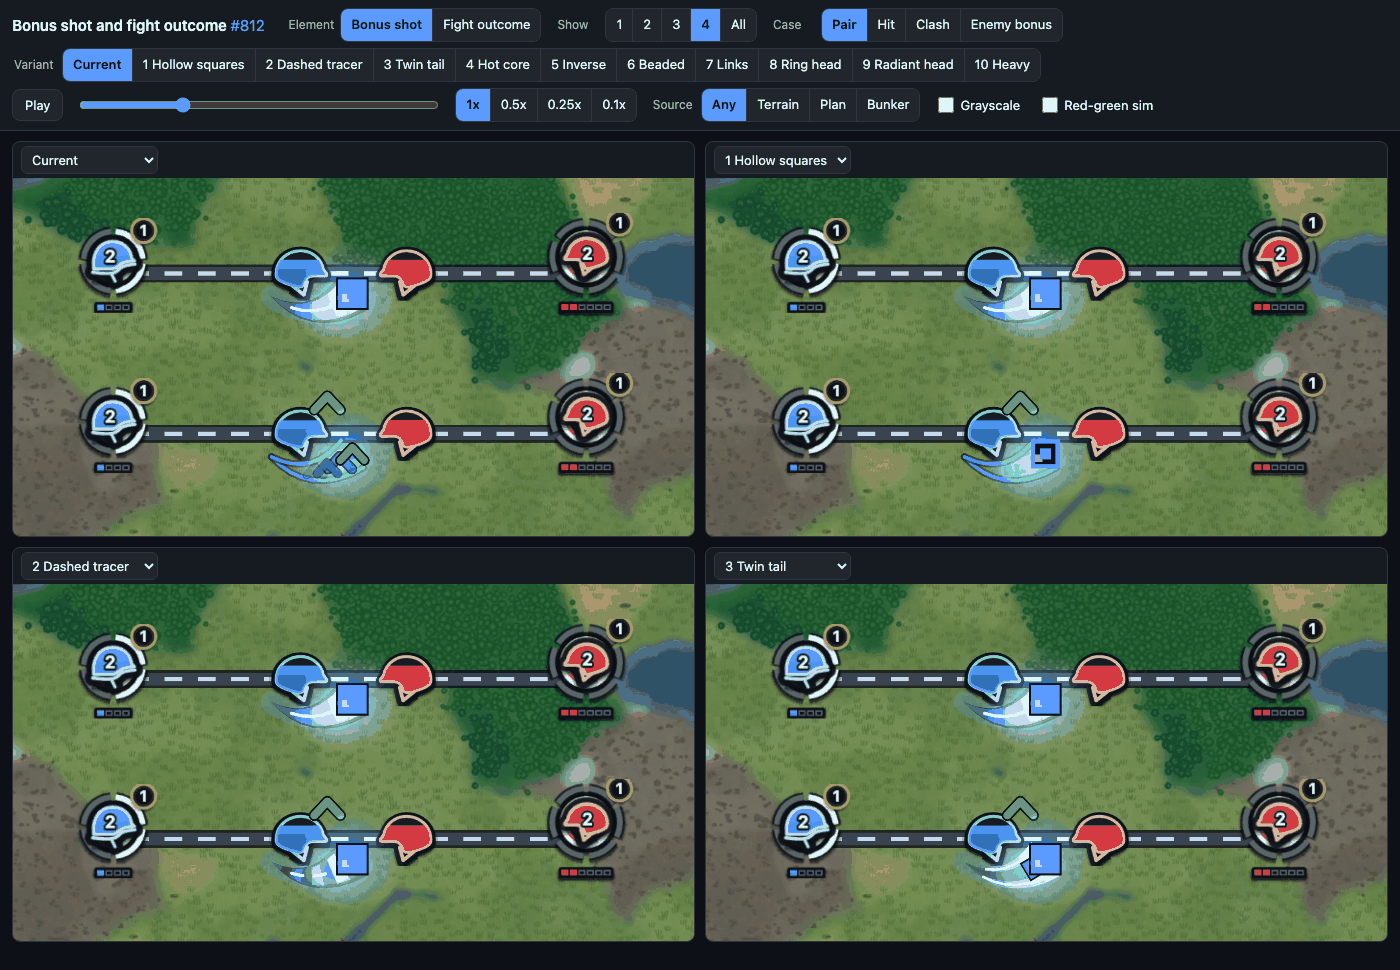
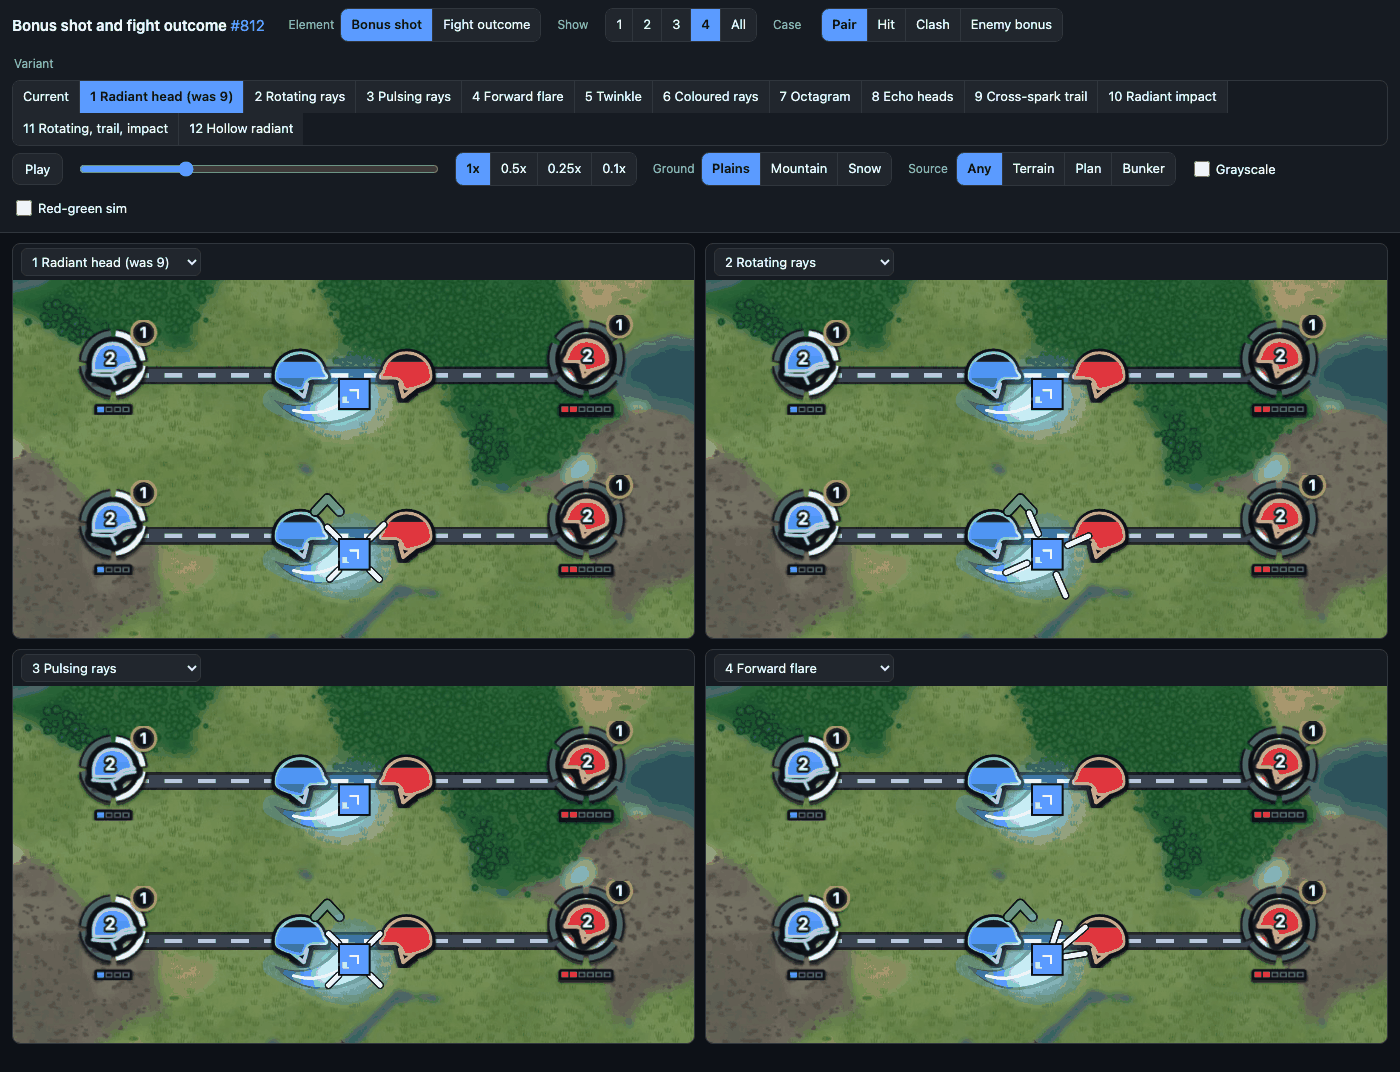
docs(docs): radiant head variations, round 3 of the bonus shot (#812)

diff --git a/docs/design/mockups/fight-bonus-and-outcome.html b/docs/design/mockups/fight-bonus-and-outcome.html
@@ -62,6 +62,7 @@ canvas{display:block;width:100%;height:auto;background:#000}
     <button id="play" aria-pressed="true">Pause</button>
     <input type="range" id="scrub" min="0" max="1000" value="0" aria-label="Time">
     <div class="seg" id="spd"></div>
+    <fieldset id="f-bg"><legend>Ground</legend><div class="seg" id="bg"></div></fieldset>
     <fieldset id="f-src"><legend>Source</legend><div class="seg" id="src"></div></fieldset>
     <label class="tog"><input type="checkbox" id="gray">Grayscale</label>
     <label class="tog"><input type="checkbox" id="rg">Red-green sim</label>
@@ -74,7 +75,7 @@ canvas{display:block;width:100%;height:auto;background:#000}
 const A='assets/fight-bonus-and-outcome/';
 const FILES={cityOwn:'city-own.png',cityEnemy:'city-enemy.png',helmetOwn:'helmet-own.png',helmetEnemy:'helmet-enemy.png',
  chipB:'chip-blue.png',chipBE:'chip-blue-empty.png',chipBD:'chip-blue-dead.png',chipR:'chip-red.png',chipRE:'chip-red-empty.png',chipRD:'chip-red-dead.png',
- bgPlains:'bg-plains.jpg',bgMountain:'bg-mountain.jpg'};
+ bgPlains:'bg-plains.jpg',bgMountain:'bg-mountain.jpg',bgSnow:'bg-snow.jpg'};
 const IMG={};
 const SP=0.75; // sprite px (2x capture) -> logical px
 const W=800,H=420;
@@ -161,6 +162,20 @@ function glowSpot(c,x,y,d,rgb,a){if(a<=0)return;c.save();c.globalCompositeOperat
 function sq(c,x,y,side,ang,fill,{outline=BG,ow=3.2,a=1}={}){c.save();c.globalAlpha*=a;c.translate(x,y);c.rotate(ang);c.beginPath();c.rect(-side/2,-side/2,side,side);if(outline){c.lineJoin='miter';c.strokeStyle=outline;c.lineWidth=ow;c.stroke();}if(fill){c.fillStyle=fill;c.fill();}c.restore();}
 function fillPoly(c,pts,style,a=1){c.save();c.globalAlpha*=a;c.fillStyle=style;polyPath(c,pts);c.closePath();c.fill();c.restore();}
 
+function rayLine(c,x,y,an,r0,r1,w,col,a=1){const p0=pt(x+Math.cos(an)*r0,y+Math.sin(an)*r0),p1=pt(x+Math.cos(an)*r1,y+Math.sin(an)*r1);strokePts(c,[p0,p1],w+2.4,'#0d1117',.9*a);strokePts(c,[p0,p1],w,col,a);}
+/* the rays of a radiant head: fixed to the corners of the square (never radial from a point, so they do not read as the cancel rays) */
+function drawRays(c,h,H,age,dir,base,mode){
+  const r0=H*.78,bc=`rgb(${base[0]},${base[1]},${base[2]})`,w=2.1*U,D=Math.PI/4;
+  if(mode==='fixed'){for(let i=0;i<4;i++)rayLine(c,h.x,h.y,D+i*Math.PI/2,r0,r0+9*U*(.8+.2*Math.sin(age/80+i)),w,'#fff');}
+  else if(mode==='rotate'){for(let i=0;i<4;i++)rayLine(c,h.x,h.y,age/170+D+i*Math.PI/2,r0,r0+10*U,w,'#fff');}
+  else if(mode==='pulse'){const q=.5+.5*Math.sin(age/90);for(let i=0;i<4;i++)rayLine(c,h.x,h.y,D+i*Math.PI/2,r0,r0+(3+13*q)*U,w,'#fff');}
+  else if(mode==='forward'){[[-.55,9],[0,14],[.55,9]].forEach(([k,L])=>rayLine(c,h.x,h.y,dir+k,H*.62,H*.62+L*U,w,'#fff'));}
+  else if(mode==='twinkle'){for(let i=0;i<4;i++){const on=(Math.floor(age/70)+i)%2===0;rayLine(c,h.x,h.y,D+i*Math.PI/2,r0,r0+(on?13:4)*U,w,'#fff');}}
+  else if(mode==='colour'){for(let i=0;i<4;i++){rayLine(c,h.x,h.y,D+i*Math.PI/2,r0,r0+12*U,3.2*U,bc);rayLine(c,h.x,h.y,D+i*Math.PI/2,r0+1*U,r0+10*U,1.2*U,'#fff');}}
+}
+function flareFx(c,s,u){if(u>=.5)return;const p=u/.5,ez=1-(1-p)*(1-p),x=s.to.x,y=s.to.y,bc=`rgb(${sideRgb(s.side).join(',')})`;
+  for(let i=0;i<4;i++){rayLine(c,x,y,i*Math.PI/2,5*U,(10+22*ez)*U,3*U*(1-p)+.8,'#fff',1-p);rayLine(c,x,y,i*Math.PI/2,(10+22*ez)*U*.6,(10+22*ez)*U,2.2*U*(1-p)+.6,bc,1-p);}
+  glowSpot(c,x,y,60*U*(1-.5*p),[255,255,255],.9*(1-p)*(1-p));}
 /* the tracer: o = {tail,head,echo,...}; the base look (tail 'solid', head 'square') is exactly the ordinary shot */
 function tracer(c,s,age,seed,o={}){
   const ph=phaseOf(s,age);if(!ph)return;
@@ -220,21 +235,25 @@ function tracer(c,s,age,seed,o={}){
   // the head: the baked square (20 units), the owner colour with a light spot (the opponent's: a dark one)
   const tg=arcTan(s,t),ang=0,H=(o.headK||1)*20*U*.62;
   const hd=o.head||'square';
+  if(o.echoHeads)for(const [back,k,al] of [[.08,.7,.55],[.16,.5,.4],[.24,.34,.25]]){const q=arcAt(s,Math.max(0,t-back));c.save();c.globalAlpha*=al;drawRays(c,q,H*k,age,0,base,'fixed');sq(c,q.x,q.y,H*k,0,rgba(base,1),{ow:2});c.restore();}
   if(hd==='square'||hd==='rays'||hd==='tandem'||hd==='heavy'){
     if(hd==='tandem'){const q=arcAt(s,Math.max(0,t-.09)),tq=arcTan(s,Math.max(0,t-.09));sq(c,q.x,q.y,H*.62,Math.atan2(tq.y,tq.x),rgba(base,1),{ow:2.6,a:.95});}
-    if(hd==='rays'){for(let i=0;i<4;i++){const an=ang+Math.PI/4+i*Math.PI/2,r0=H*.78,r1=H*.78+9*U*(.8+.2*Math.sin(age/80+i));strokePts(c,[pt(head.x+Math.cos(an)*r0,head.y+Math.sin(an)*r0),pt(head.x+Math.cos(an)*r1,head.y+Math.sin(an)*r1)],2.6*U*.8+2,'#0d1117',.9);strokePts(c,[pt(head.x+Math.cos(an)*r0,head.y+Math.sin(an)*r0),pt(head.x+Math.cos(an)*r1,head.y+Math.sin(an)*r1)],2.6*U*.8,'#fff',1);}}
+    if(hd==='rays')drawRays(c,head,H,age,Math.atan2(tg.y,tg.x),base,o.rayMode||'fixed');
     sq(c,head.x,head.y,H,ang,rgba(base,1));sq(c,head.x,head.y,H*.34,ang,enemy?'#0d1117':'#fff',{outline:null,a:.95});}
   else if(hd==='hollow'){sq(c,head.x,head.y,H,ang,'#0d1117',{outline:null});sq(c,head.x,head.y,H-3,ang,null,{outline:rgba(base,1),ow:3.4});sq(c,head.x,head.y,H*.26,ang,'#fff',{outline:null});}
+  else if(hd==='octa'){sq(c,head.x,head.y,H*1.3,age/240+Math.PI/4,`rgb(${mixw(HX[s.side],.45).join(',')})`,{ow:2.6});sq(c,head.x,head.y,H,age/-300,rgba(base,1));sq(c,head.x,head.y,H*.34,0,enemy?'#0d1117':'#fff',{outline:null,a:.95});}
+  else if(hd==='hollowrays'){drawRays(c,head,H,age,Math.atan2(tg.y,tg.x),base,'fixed');sq(c,head.x,head.y,H,ang,'#0d1117',{outline:null});sq(c,head.x,head.y,H-3,ang,null,{outline:rgba(base,1),ow:3.4});sq(c,head.x,head.y,H*.26,ang,'#fff',{outline:null});}
   else if(hd==='whitesq'){sq(c,head.x,head.y,H,ang,'#fff',{outline:'#0d1117'});sq(c,head.x,head.y,H-2,ang,null,{outline:rgba(base,1),ow:3});}
   else if(hd==='ring'){fillC(c,head.x,head.y,H*.72,'#0d1117');ringC(c,head.x,head.y,H*.5,3.6,`rgb(${base[0]},${base[1]},${base[2]})`);fillC(c,head.x,head.y,H*.14,'#fff');}
   // the sparks: five little squares left along the way, alternately the colour and white
   for(let j=0;j<5;j++){const born=(j+1)/6,ageSh=(ph.flown-born)*s.at;if(ageSh<0||ageSh>=.16)continue;const life=ageSh/.16,q=arcAt(s,s.start+(1-s.start)*born),dr=(rnd(j+seed*3)-.5)*9*life*U;
-    sq(c,q.x+s.normal.x*dr,q.y+s.normal.y*dr,4.8*(1-life)*U,0,j%2?'#fff':rgba(base,1),{outline:null,a:1-life});}
+    if(o.sparkKind==='cross'){const px=q.x+s.normal.x*dr,py=q.y+s.normal.y*dr,r=4.8*U*(1-life)*1.5;star4(c,px,py,r*1.3,life*3,'#0d1117',.8*(1-life),.3);star4(c,px,py,r,life*3,j%2?'#fff':rgba(base,1),1-life,.3);}
+    else sq(c,q.x+s.normal.x*dr,q.y+s.normal.y*dr,4.8*(1-life)*U,0,j%2?'#fff':rgba(base,1),{outline:null,a:1-life});}
 }
 /* the wind-up: a glow grows on the group and a ring closes in on it, 0.35 s before the tick (render/fightImpact.ts) */
 function wind(c,at,side,t){const w=clamp((t-(T.fire-.175*ROUND))/(.175*ROUND));if(w<=0||w>=1&&t>T.fire)return;const rgb=sideRgb(side);glowSpot(c,at.x,at.y,2*1.4*(9+9*w*1.6)*U,rgb,.55*w);ringC(c,at.x,at.y,(25-10*w)*U,2.2,`rgb(${rgb[0]},${rgb[1]},${rgb[2]})`,.7*w);}
 /* the hit burst (impactParticles, kill): ring, flash, sparks in a cone from the shooter, shards of a unit that died; bonus: dashed ring, paler flash */
-function hitFx(c,s,th,{spark='square',bonus=false,ringK=1,extra=null}={}){
+function hitFx(c,s,th,{spark='square',bonus=false,ringK=1,extra=null,flare=false}={}){
   const u=th/(.5*ROUND);if(u<0||u>=1)return;const to=s.to,from=s.from,ang=Math.atan2(to.y-from.y,to.x-from.x),shooter=sideRgb(s.side),victim=s.side==='own'?'enemy':'own',vrgb=sideRgb(victim),ez=p=>1-(1-p)*(1-p);
   if(u<.5){const p=u/.5,r=(5+32.8*ez(p))*.55*U*ringK,col=mixw(HX[s.side],.5);c.save();if(bonus)c.setLineDash([6*U*.6,5*U*.6]);ringC(c,to.x,to.y,r,4.4,'#0d1117',(1-p)*.8);ringC(c,to.x,to.y,r,2.6,`rgb(${col[0]},${col[1]},${col[2]})`,1-p);c.restore();}
   if(u<.3){const p=u/.3;glowSpot(c,to.x,to.y,2*(8+12.8)*1.3*U*(1-.4*p)*.6,[255,255,255],(bonus?.55:.8)*(1-p)*(1-p));}
@@ -242,6 +261,7 @@ function hitFx(c,s,th,{spark='square',bonus=false,ringK=1,extra=null}={}){
     if(spark==='hollow')sq(c,x,y,sz*1.5,an,null,{outline:j%2?'#fff':`rgb(${shooter[0]},${shooter[1]},${shooter[2]})`,ow:1.8,a:1-p});
     else sq(c,x,y,sz,an,j%2?'#fff':`rgb(${shooter[0]},${shooter[1]},${shooter[2]})`,{outline:null,a:1-p});}}
   const q=u/.95;if(q<1)for(let j=0;j<5;j++){const an=ang+(rnd(j+31)-.5)*3.4,d=ez(q)*48*U*.6,x=to.x+Math.cos(an)*d,y=to.y+Math.sin(an)*d+q*q*36*U*.6;c.save();c.translate(x,y);c.rotate(q*6.6+j);c.globalAlpha=1-q;const im=IMG.chipR;c.drawImage(im,-im.width*SP*.2,-im.height*SP*.2,im.width*SP*.4,im.height*SP*.4);c.restore();}
+  if(flare)flareFx(c,s,u);
   if(extra)extra(c,s,u);
 }
 function cancelFx(c,s,th,bonusBy){const u=th/(.5*ROUND);if(u<0||u>=1)return;const m=s.b,ez=p=>1-(1-p)*(1-p);
@@ -252,16 +272,18 @@ function cancelFx(c,s,th,bonusBy){const u=th/(.5*ROUND);if(u<0||u>=1)return;cons
 
 const V=[];
 V.push({id:'cur',name:'Current',o:{tail:'edges',head:'chevron',echo:'chevrons'},hit:{bonus:true,spark:'hollow'}});
-V.push({id:'hollow',name:'Hollow squares',o:{tail:'edges',head:'hollow',echo:'squares'},hit:{bonus:true,spark:'hollow'}});
-V.push({id:'dashed',name:'Dashed tracer',o:{tail:'dashed',head:'square'},hit:{bonus:true,spark:'square'}});
-V.push({id:'twin',name:'Twin tail',o:{tail:'twin',head:'tandem'},hit:{bonus:true,spark:'square'}});
-V.push({id:'hot',name:'Hot core',o:{tail:'hot',head:'whitesq',glowK:1.35,glowA:1.2},hit:{bonus:false,spark:'square',ringK:1.15}});
-V.push({id:'inverse',name:'Inverse',o:{tail:'inverse',head:'whitesq',bonusPath:true},hit:{bonus:true,spark:'square'}});
-V.push({id:'beads',name:'Beaded',o:{tail:'beads',head:'square',bonusPath:true},hit:{bonus:true,spark:'square'}});
-V.push({id:'links',name:'Links',o:{tail:'links',head:'square'},hit:{bonus:true,spark:'square'}});
-V.push({id:'ring',name:'Ring head',o:{tail:'solid',head:'ring',bonusPath:true},hit:{bonus:true,spark:'hollow'}});
-V.push({id:'rays',name:'Radiant head',o:{tail:'solid',head:'rays'},hit:{bonus:true,spark:'square'}});
-V.push({id:'heavy',name:'Heavy',o:{tail:'heavy',head:'square',tailK:1.5,shareK:.62,headK:1.4,glowK:1.25},hit:{bonus:false,spark:'square',ringK:1.25}});
+V.push({id:'rays',name:'Radiant head (was 9)',o:{tail:'solid',head:'rays'},hit:{bonus:true,spark:'square'}});
+V.push({id:'rotate',name:'Rotating rays',o:{tail:'solid',head:'rays',rayMode:'rotate'},hit:{bonus:true,spark:'square'}});
+V.push({id:'pulse',name:'Pulsing rays',o:{tail:'solid',head:'rays',rayMode:'pulse'},hit:{bonus:true,spark:'square'}});
+V.push({id:'forward',name:'Forward flare',o:{tail:'solid',head:'rays',rayMode:'forward'},hit:{bonus:true,spark:'square'}});
+V.push({id:'twinkle',name:'Twinkle',o:{tail:'solid',head:'rays',rayMode:'twinkle'},hit:{bonus:true,spark:'square'}});
+V.push({id:'colour',name:'Coloured rays',o:{tail:'solid',head:'rays',rayMode:'colour'},hit:{bonus:true,spark:'square'}});
+V.push({id:'octa',name:'Octagram',o:{tail:'solid',head:'octa'},hit:{bonus:true,spark:'square'}});
+V.push({id:'echo',name:'Echo heads',o:{tail:'solid',head:'rays',echoHeads:true},hit:{bonus:true,spark:'square'}});
+V.push({id:'cross',name:'Cross-spark trail',o:{tail:'solid',head:'rays',sparkKind:'cross'},hit:{bonus:true,spark:'square'}});
+V.push({id:'impact',name:'Radiant impact',o:{tail:'solid',head:'rays'},hit:{bonus:true,spark:'square',flare:true}});
+V.push({id:'rich',name:'Rotating, trail, impact',o:{tail:'solid',head:'rays',rayMode:'rotate',sparkKind:'cross',glowK:1.15},hit:{bonus:true,spark:'square',flare:true}});
+V.push({id:'hollowrays',name:'Hollow radiant',o:{tail:'solid',head:'hollowrays'},hit:{bonus:true,spark:'hollow'}});
 
 /* the current bonus look (#797): hollow tail with three trailing chevrons and a chevron head, drawn here as it is today */
 function curBonusExtras(c,s,age){const ph=phaseOf(s,age);if(!ph||ph.kind!=='flight')return;const t=ph.s,base=sideRgb(s.side),head=arcAt(s,t);
@@ -293,7 +315,7 @@ function lane(c,st,v,t,y,mode){ // mode: 'bonus' or 'ordinary' shot by `shooter`
   c.restore();
 }
 function bonusFrame(c,st,v,t){
-  drawBg(c,st.src==='terrain'?'bgMountain':'bgPlains');
+  drawBg(c,st.bg==='snow'?'bgSnow':(st.bg==='mountain'||st.src==='terrain')?'bgMountain':'bgPlains');
   if(st.sc==='pair'){lane(c,st,V[0],t,112,'ordinary');lane(c,st,v,t,300,'bonus');}
   else lane(c,st,v,t,215,'bonus');
 }
@@ -404,11 +426,11 @@ OV.push({id:'plate2',name:'Plate and centre glyph',draw(c,D){const{cx,py}=D,w=28
    ============================================================ */
 const ELS={bonus:{name:'Bonus shot',vars:V,loop:T.loop,frame:bonusFrame,cases:[['pair','Pair'],['hit','Hit'],['clash','Clash'],['enemy','Enemy bonus']]},
   outcome:{name:'Fight outcome',vars:OV,loop:O.loop,frame:outcomeFrame,cases:[['held','Held'],['lost','City lost'],['take','We capture'],['repel','Repelled'],['bounce','Both retreat']]}};
-const st={el:'bonus',n:2,v:[0,1,2,3],sc:'pair',src:'any',gray:false,rg:false,t:0,play:true,spd:1};
+const st={el:'bonus',n:2,v:[1,2,3,4],sc:'pair',src:'any',bg:'plains',gray:false,rg:false,t:0,play:true,spd:1};
 const $=id=>document.getElementById(id);
 function seg_(host,name,items,cur,on){host.innerHTML='';items.forEach(([val,label])=>{const l=document.createElement('label');const i=document.createElement('input');i.type='radio';i.name=name;i.value=val;i.checked=String(val)===String(cur);i.onchange=()=>on(val);const s=document.createElement('span');s.textContent=label;l.append(i,s);host.append(l);});}
-function readHash(){const h=new URLSearchParams(location.hash.slice(1));if(h.get('el')&&ELS[h.get('el')])st.el=h.get('el');if(h.get('n'))st.n=h.get('n')==='all'?'all':+h.get('n');if(h.get('v'))st.v=h.get('v').split(',').map(Number);if(h.get('sc'))st.sc=h.get('sc');if(h.get('src'))st.src=h.get('src');if(h.get('t'))st.t=+h.get('t');if(h.get('pause')){st.play=false;}}
-function writeHash(){const h=new URLSearchParams({el:st.el,n:st.n,v:st.v.join(','),sc:st.sc,src:st.src});history.replaceState(null,'','#'+h);}
+function readHash(){const h=new URLSearchParams(location.hash.slice(1));if(h.get('el')&&ELS[h.get('el')])st.el=h.get('el');if(h.get('n'))st.n=h.get('n')==='all'?'all':+h.get('n');if(h.get('v'))st.v=h.get('v').split(',').map(Number);if(h.get('sc'))st.sc=h.get('sc');if(h.get('src'))st.src=h.get('src');if(h.get('bg'))st.bg=h.get('bg');if(h.get('t'))st.t=+h.get('t');if(h.get('pause')){st.play=false;}}
+function writeHash(){const h=new URLSearchParams({el:st.el,n:st.n,v:st.v.join(','),sc:st.sc,src:st.src,bg:st.bg});history.replaceState(null,'','#'+h);}
 let panes=[];
 function build(){
   const E=ELS[st.el];if(!E.cases.some(x=>x[0]===st.sc))st.sc=E.cases[0][0];
@@ -416,8 +438,9 @@ function build(){
   seg_($('cmp'),'cmp',[[1,'1'],[2,'2'],[3,'3'],[4,'4'],['all','All']],st.n,v=>{st.n=v==='all'?'all':+v;build();});
   seg_($('sc'),'sc',E.cases,st.sc,v=>{st.sc=v;writeHash();});
   seg_($('var'),'var',E.vars.map((v,i)=>[i,i===0?'Current':i+' '+v.name]),st.v[0],v=>{st.v[0]=+v;build();});
+  seg_($('bg'),'bg',[['plains','Plains'],['mountain','Mountain'],['snow','Snow']],st.bg,v=>{st.bg=v;writeHash();});
   seg_($('src'),'src',[['any','Any'],['terrain','Terrain'],['plan','Plan'],['bunker','Bunker']],st.src,v=>{st.src=v;writeHash();});
-  $('f-src').hidden=st.el!=='bonus';
+  $('f-src').hidden=$('f-bg').hidden=st.el!=='bonus';
   const host=$('panes');host.innerHTML='';host.className=st.n==='all'?'all':'n'+st.n;
   const count=st.n==='all'?E.vars.length:st.n;panes=[];
   for(let i=0;i<count;i++){const vi=st.n==='all'?i:((st.v[i]??(st.v[0]+i))%E.vars.length);if(st.n!=='all')st.v[i]=vi;
